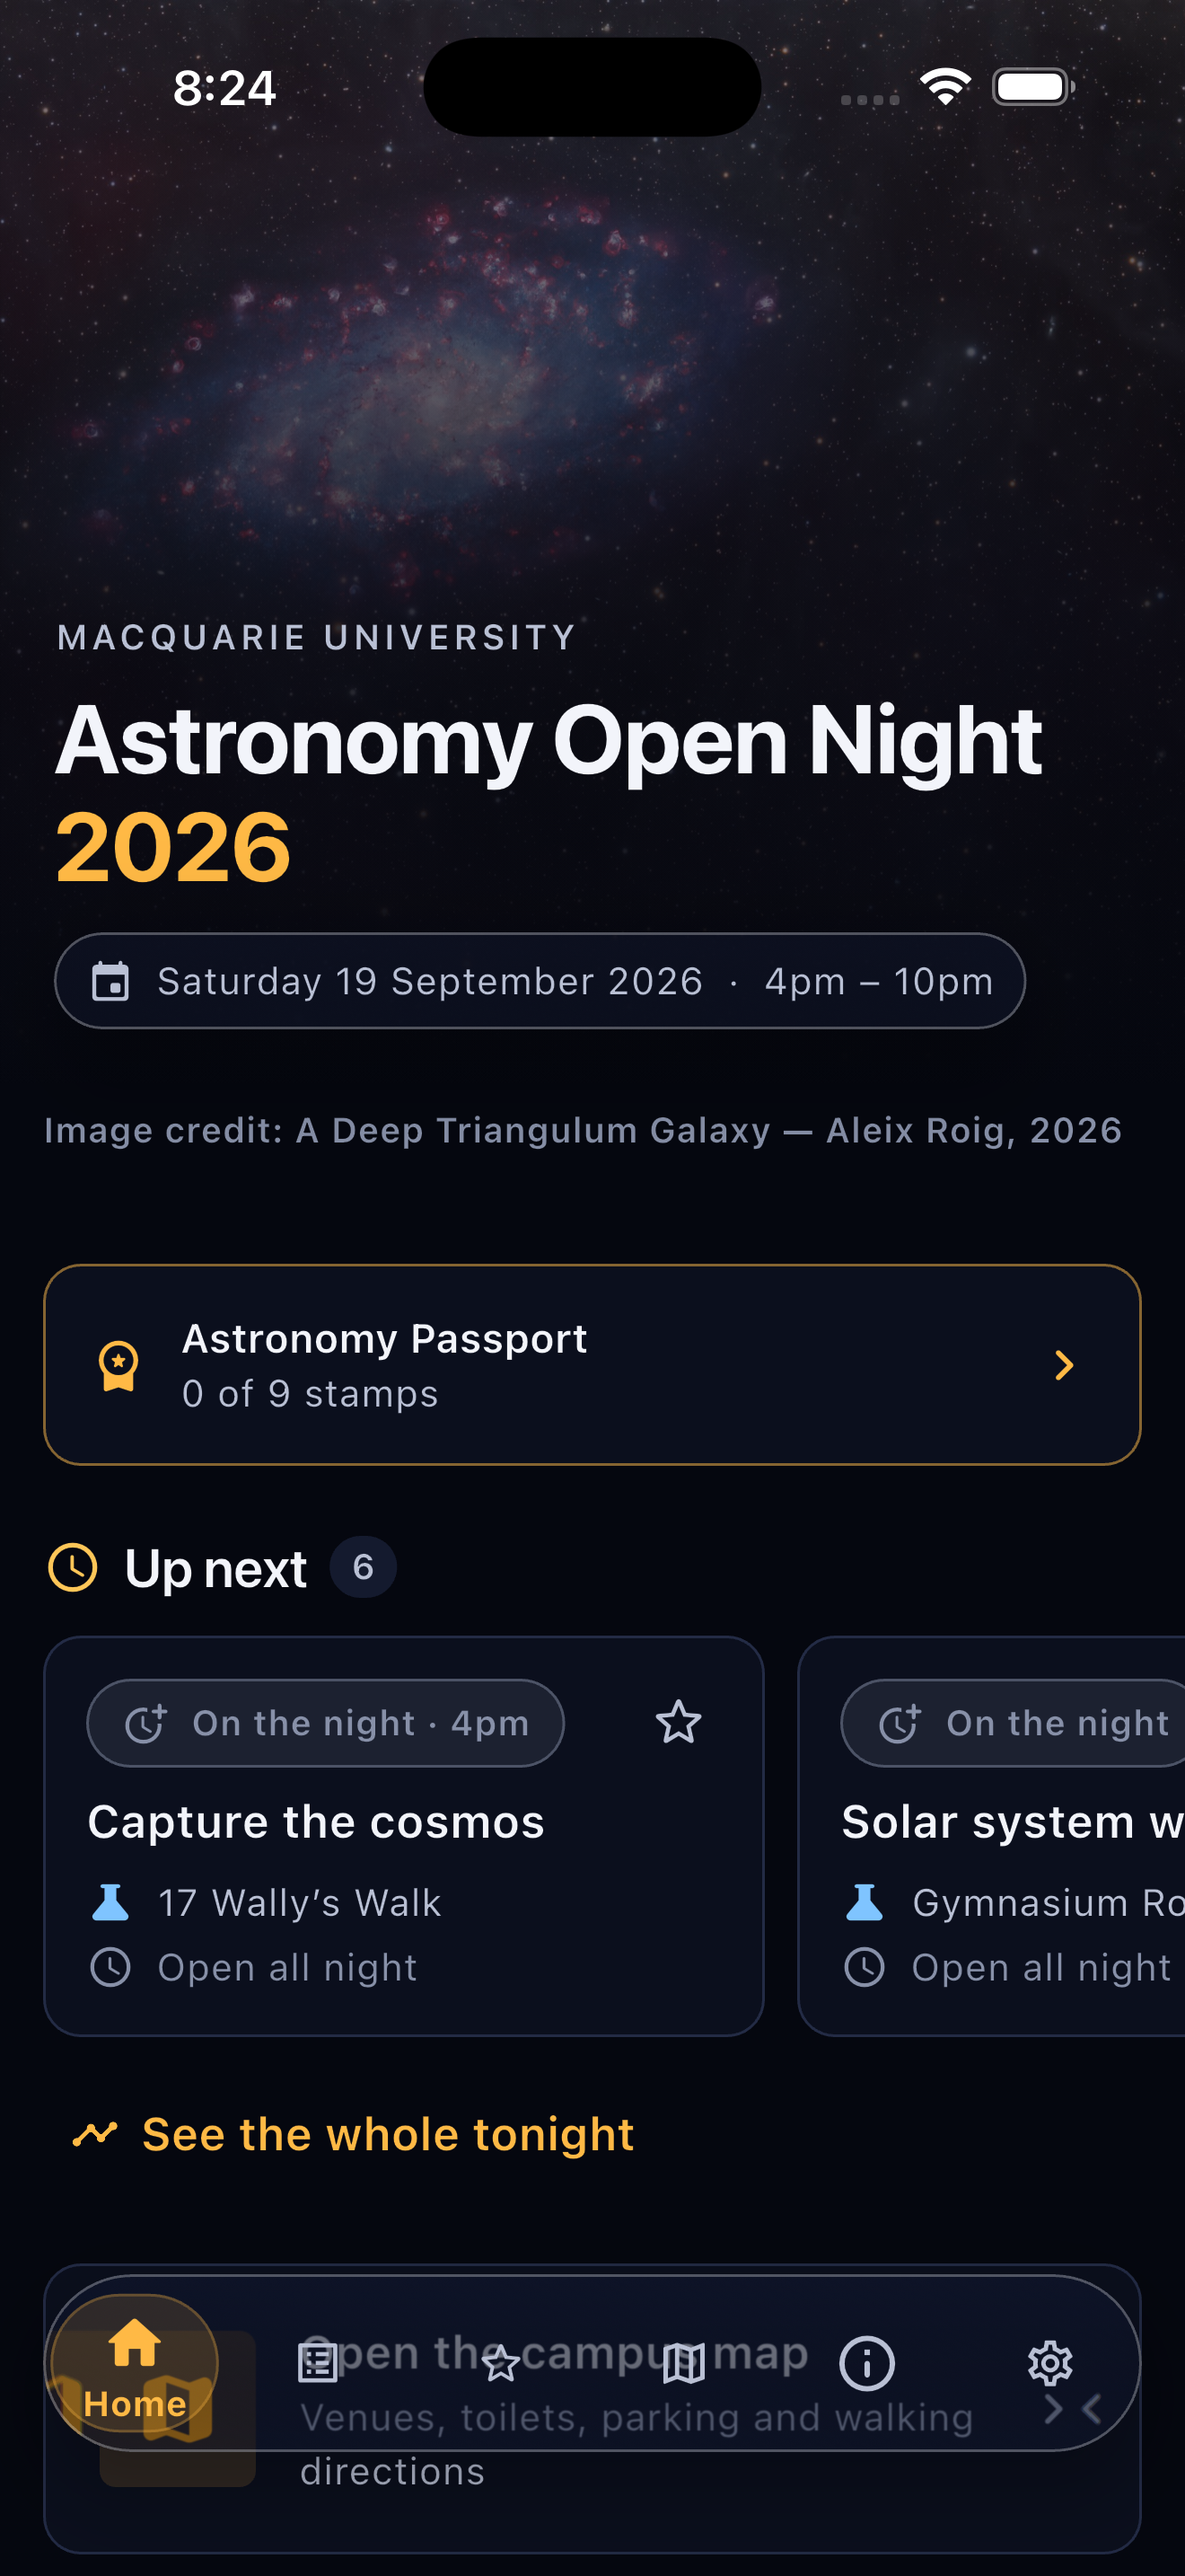
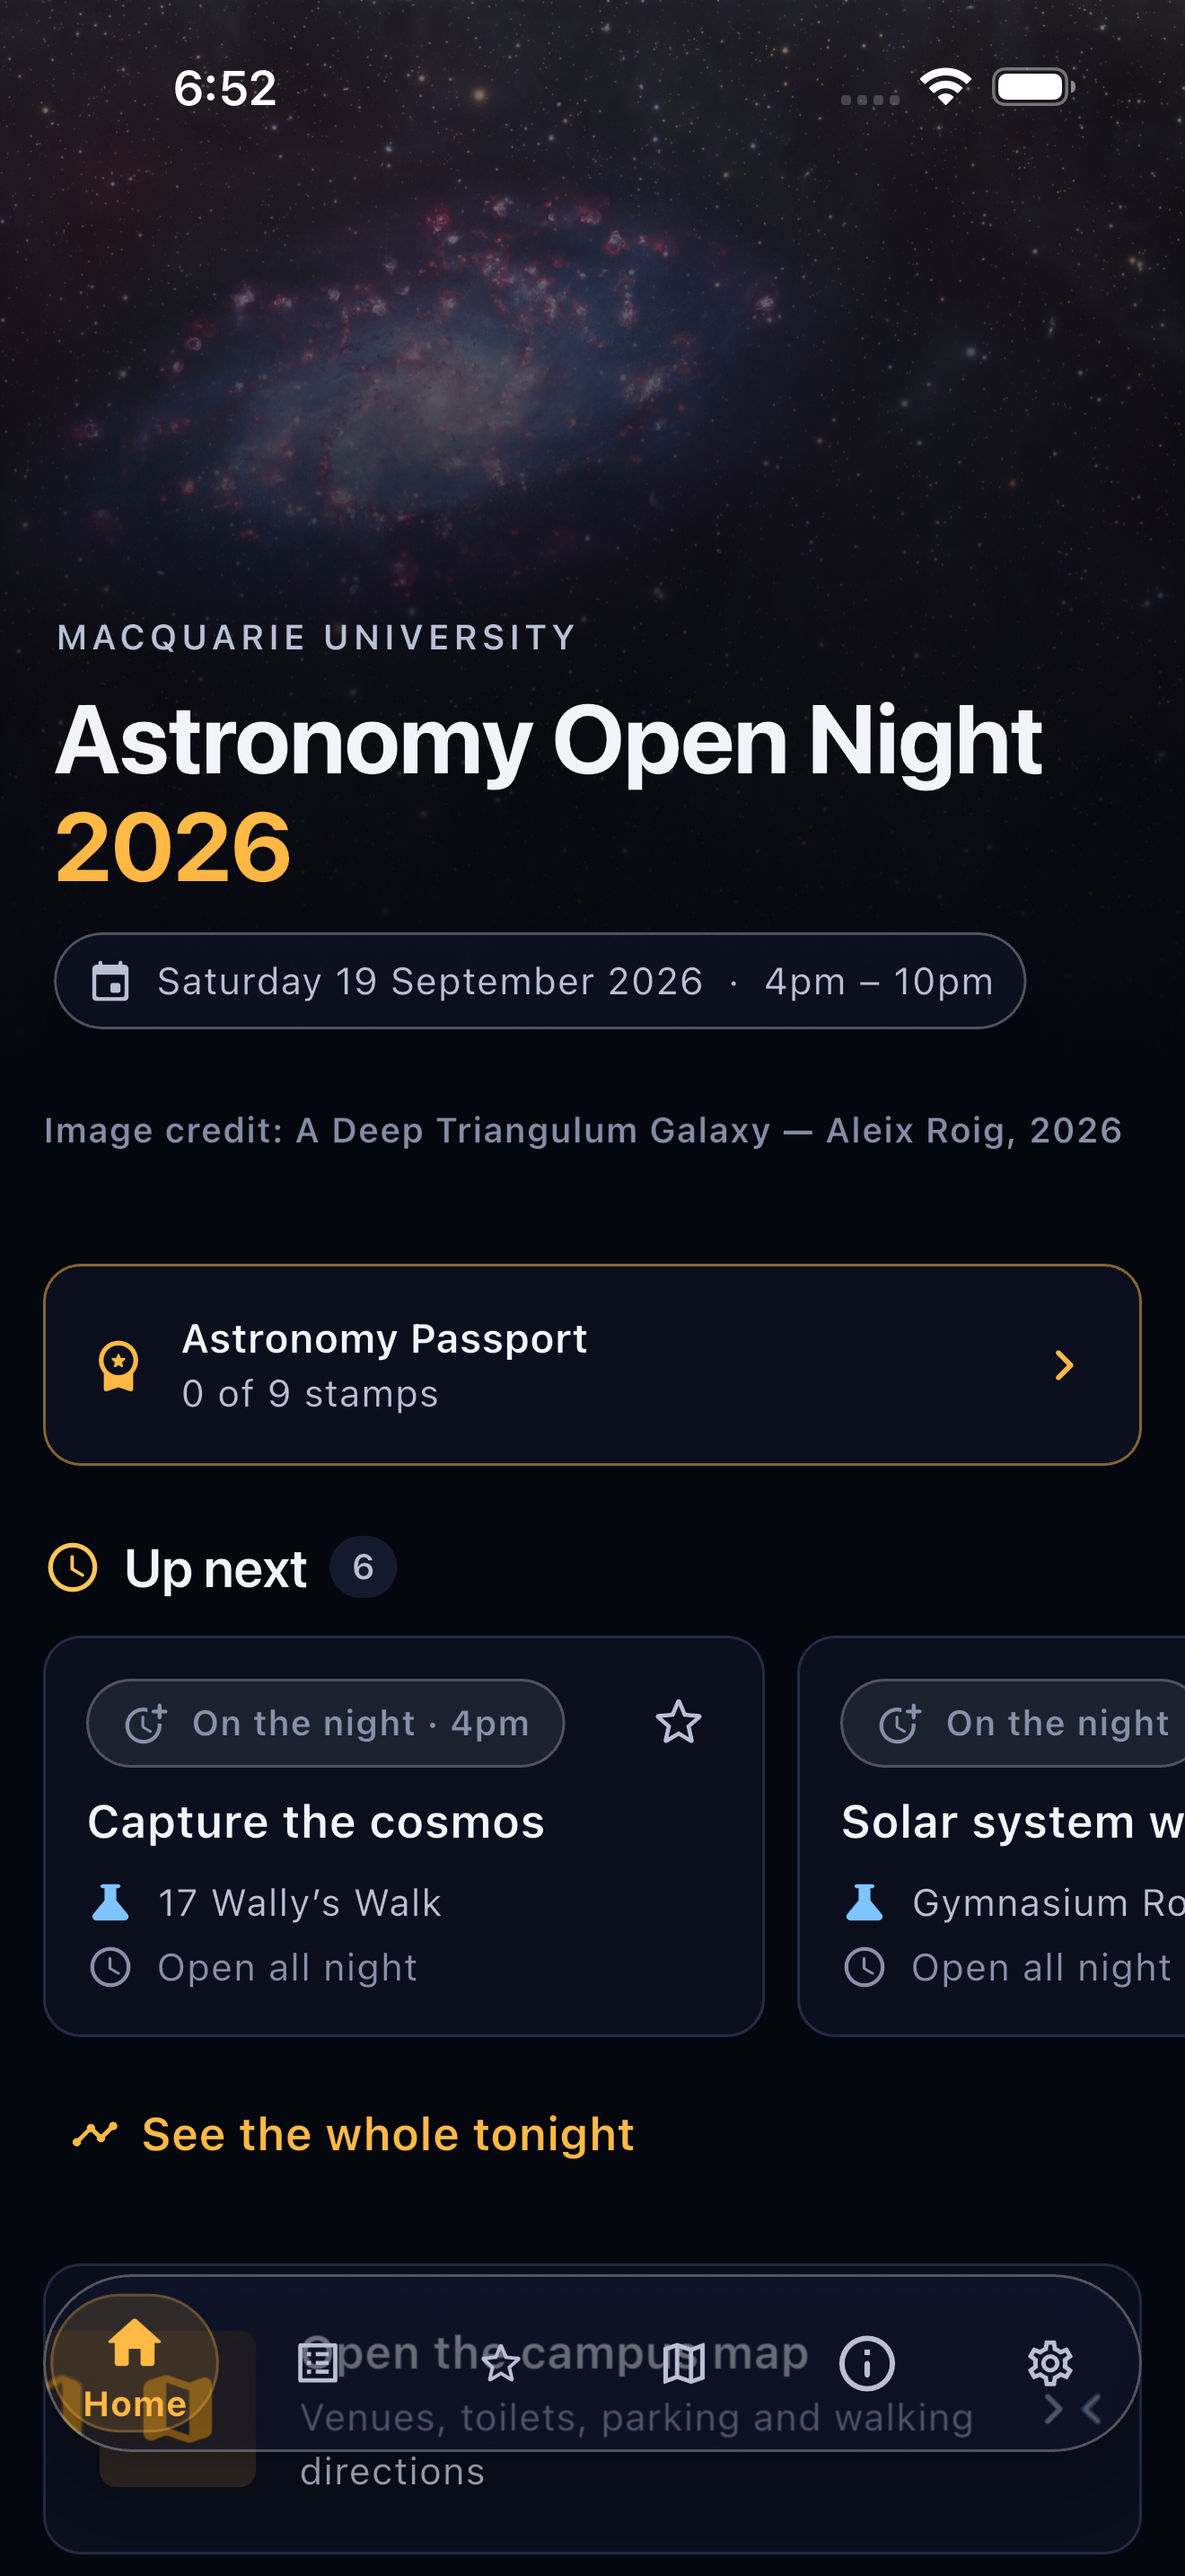
docs(release): recapture every store screenshot from the current build
iPhone 17 Pro Max 6.9" x6 (1320x2868), iPad Pro 13" x6 (2064x2752), Android
Pixel 8 x6 (1080x2160 — exactly Play's 2:1 cap, display forced with `wm size`
on the API 36 emulator, release APK). Same six screens on every device: home,
program, my-night, map, a 360° tour, passport at zero stamps. All opaque PNGs;
old 2026-08-23 / 2026-09-05 sets deleted. Listing docs, changelog and
ARCHITECTURE §10.4 updated.

Changed region(s): [[0.3417, 0.0, 0.6523, 0.0621], [0.1864, 0.031, 0.2174, 0.0621]]

diff --git a/docs/release/app-store-listing.md b/docs/release/app-store-listing.md
@@ -169,53 +169,30 @@ players, so the gambling and contest questions are genuinely *None*.
 
 ## Screenshots
 
-Captured at exact device resolution and committed under
-`docs/release/screenshots/`.
+Recaptured **2026-09-06** from the current build (after the contextual-location
+change and the Android glass fix, which does not affect iOS) and committed under
+`docs/release/screenshots/`. Every file is an unretouched simulator capture,
+opaque PNG, exact device resolution.
 
 | Size | Device | Required | Status |
 |---|---|---|---|
-| 1320 × 2868 | iPhone 17 Pro Max (6.9") | **Yes** | **6 recaptured 2026-09-05** ✓ |
-| 2064 × 2752 | iPad Pro 13-inch (M5) | **Yes** — the app runs on iPad | **1 recaptured 2026-09-05** ✓ · 3 removed as stale — see below |
+| 1320 × 2868 | iPhone 17 Pro Max (6.9") | **Yes** | 6 captured |
+| 2064 × 2752 | iPad Pro 13-inch (M5) | **Yes** — the app runs on iPad | 6 captured |
 
-**Why the 2026-08-23 set was replaced.** It showed copy the app no longer ships:
-`iphone-6.9/01-home.png` had the map card reading *"Venues, toilets, first aid —
-and walking directions from the car parks"*, while the shipped string is now
-*"Venues, toilets, parking and walking directions"*. The fortnight after that
-capture also brought the redesigned Program filters, the removed Compass mode,
-the West 6 parking pin, the Toilets chooser and the reordered 360° picker — all
-visible in the new set.
-
-**The iPad set is incomplete on purpose.** `01-home.png` was recaptured and is
-current. The other three could not be: Maestro reports success against the iPad
-simulator's UDID while the taps land somewhere else (the screen never changes —
-three consecutive captures came back byte-identical), which is the iPad session
-trap already recorded in `.maestro/README.md`. Rather than ship images of an
-older UI, they were removed. Apple requires **at least one** iPad screenshot for
-an iPad-capable app, so the single current Home shot satisfies the minimum;
-capture Map, a 360° tour and Settings by hand in Simulator (`xcrun simctl io
-<udid> screenshot`) if you want the full set.
-
-No alpha channel, no transparency — `simctl io screenshot` produces opaque PNGs.
-
-### The iPad set
+Both sets show the same six screens, in the order Apple displays them:
 
 | File | Screen |
 |---|---|
-| `01-home.png` | Hero and multi-column layout — the iPad gets a genuinely different grid, not a stretched phone: four "Up next" cards in a row and the eight-tile "Find your way to" grid |
+| `01-home.png` | Hero, event date, the passport card, "Up next" |
+| `02-program.png` | The programme with the time / activity filters |
+| `03-my-night.png` | My Night with a saved activity |
+| `04-map.png` | Official AON basemap with A–I pins, category filters, Directions |
+| `05-panorama.png` | A 360° tour (iPhone: Solar system walk "Gymnasium Road"; iPad: 1 Central Courtyard) |
+| `06-passport.png` | The Astronomy Passport at zero stamps with its explanation line |
 
-*(`02-map.png`, `03-panorama.png` and `04-settings-preview.png` were removed on
-2026-09-05 — see the note above.)*
-
-### What the iPhone set shows
-
-| File | Screen |
-|---|---|
-| `01-home.png` | Hero, event date, passport card, "Up next" |
-| `02-map.png` | Official AON basemap with the A–I pins, the P parking pins, category filters and the Directions CTA |
-| `03-settings-credits.png` | Settings → Credits: the hero credit, the MQ event-materials line, the map-data attribution and the two developers |
-| `04-passport.png` | The passport at zero stamps, with the "each of the nine venues has a QR sign" explainer that stands in for onboarding |
-| `05-program.png` | The programme: search, "Filter by time" / "Filter by activity", the Tonight / Sections toggle, 36 items |
-| `06-panorama.png` | The Observatory 360° tour — the dome, with the scene rail |
+The old 2026-08-23 / 2026-09-05 captures were deleted; the previous
+`03-settings-credits.png` is not part of the set any more (a Settings screen
+sells nothing).
 
 Apple's rule (2.3.3) is that screenshots show the app in use. These are
 unretouched captures, so they comply by construction. If marketing wants text

diff --git a/docs/release/play-store-listing.md b/docs/release/play-store-listing.md
@@ -84,13 +84,9 @@ notes:
 |---|---|---|
 | App icon | 512 × 512 PNG, 32-bit, **no transparency** | **DONE** — `docs/release/play-graphics/icon-512.png`, verified 512×512, `hasAlpha: no` |
 | Feature graphic | 1024 × 500 JPG/PNG, no transparency | **TODO** — required for every listing. **Do not build it from the Home hero image**: rights to that photograph remain with Aleix Roig, not MQ. See `organiser-requests.md`. |
-| Phone screenshots | 2–8, min 320 px, max 3840 px, ratio ≤ 2:1 | The 1320 × 2868 iPhone captures are ratio 2.17:1 and **will be rejected**; capture on an Android emulator instead |
-| Tablet screenshots | Optional but strongly recommended | Same |
+| Phone screenshots | 2–8, min 320 px, max 3840 px, ratio ≤ 2:1 | **DONE** — six 1080 × 2160 (exactly 2:1) captures in `docs/release/screenshots/android-phone/` from the release APK on the Android 16 emulator (Pixel 8, display forced to 2:1): home, program, my-night, map, 360° picker, passport. Opaque PNG |
+| Tablet screenshots | Optional but strongly recommended | Not captured (no tablet AVD); the iPad captures are 3:4 and can be used if Play accepts them for the 7"/10" slots |
 
-> **The iPhone screenshots cannot be reused on Play.** Play caps the aspect ratio
-> at 2:1 and 1320 × 2868 is 2.17:1. Capture Android screenshots from an emulator
-> — `Fresh_API34` exists in this machine's AVD list, though it should be replaced
-> with an API 36 image to match the shipped target.
 
 ### Category and tags
 

diff --git a/CHANGELOG.md b/CHANGELOG.md
@@ -49,6 +49,13 @@ Alavi's personal Play account.
   the tap-initiated permission; cross-platform dialog regex in `passport`.
 - Docs reconciled to the contextual-location model (review notes,
   ARCHITECTURE, onboarding decision, Apple audit, CLAUDE.md).
+- The passport's "Reset passport" action is now behind an explicit per-run
+  define (`AON_PASSPORT_RESET_TOOL`, `qa_mode.dart`) instead of `kDebugMode`:
+  it had appeared in a store screenshot taken from a debug simulator build.
+  Release is unchanged (never shown); tests opt in via the provider.
+- Store screenshots recaptured (2026-09-06) from the current build: iPhone
+  6.9" ×6 (1320×2868), iPad 13" ×6 (2064×2752), Android phone ×6 (1080×2160,
+  exactly 2:1 for Play). Old sets deleted.
 
 **Verification:** see `GOOGLE_PLAY_RELEASE_AUDIT.md` (Build Results): AAB
 signed and verified; all 64-bit `.so` 16 KB-aligned + `zipalign -P 16`

diff --git a/ARCHITECTURE.md b/ARCHITECTURE.md
@@ -589,6 +589,16 @@ flowchart LR
 
 ---
 
+### 10.4 QA-only controls are per-run defines, never `kDebugMode`
+
+`lib/config/qa_mode.dart` holds the two QA relaxations
+(`AON_ALLOW_OFF_CAMPUS_TESTING`, `AON_PASSPORT_RESET_TOOL`). Both are
+`bool.fromEnvironment` constants — `false` unless the define is passed on that
+run — mirrored by a provider so tests can flip them. Nothing user-visible may
+hang off `kDebugMode`: the debug simulator build is what the store
+screenshots and the Maestro suite are captured from, and a `kDebugMode`
+"Reset passport" button reached an App Store screenshot on 2026-09-06.
+
 ### 11.1 Glass shader — one orientation for every backend
 
 `shaders/glass_refraction.frag` samples the `ImageFilter.shader` backdrop with
